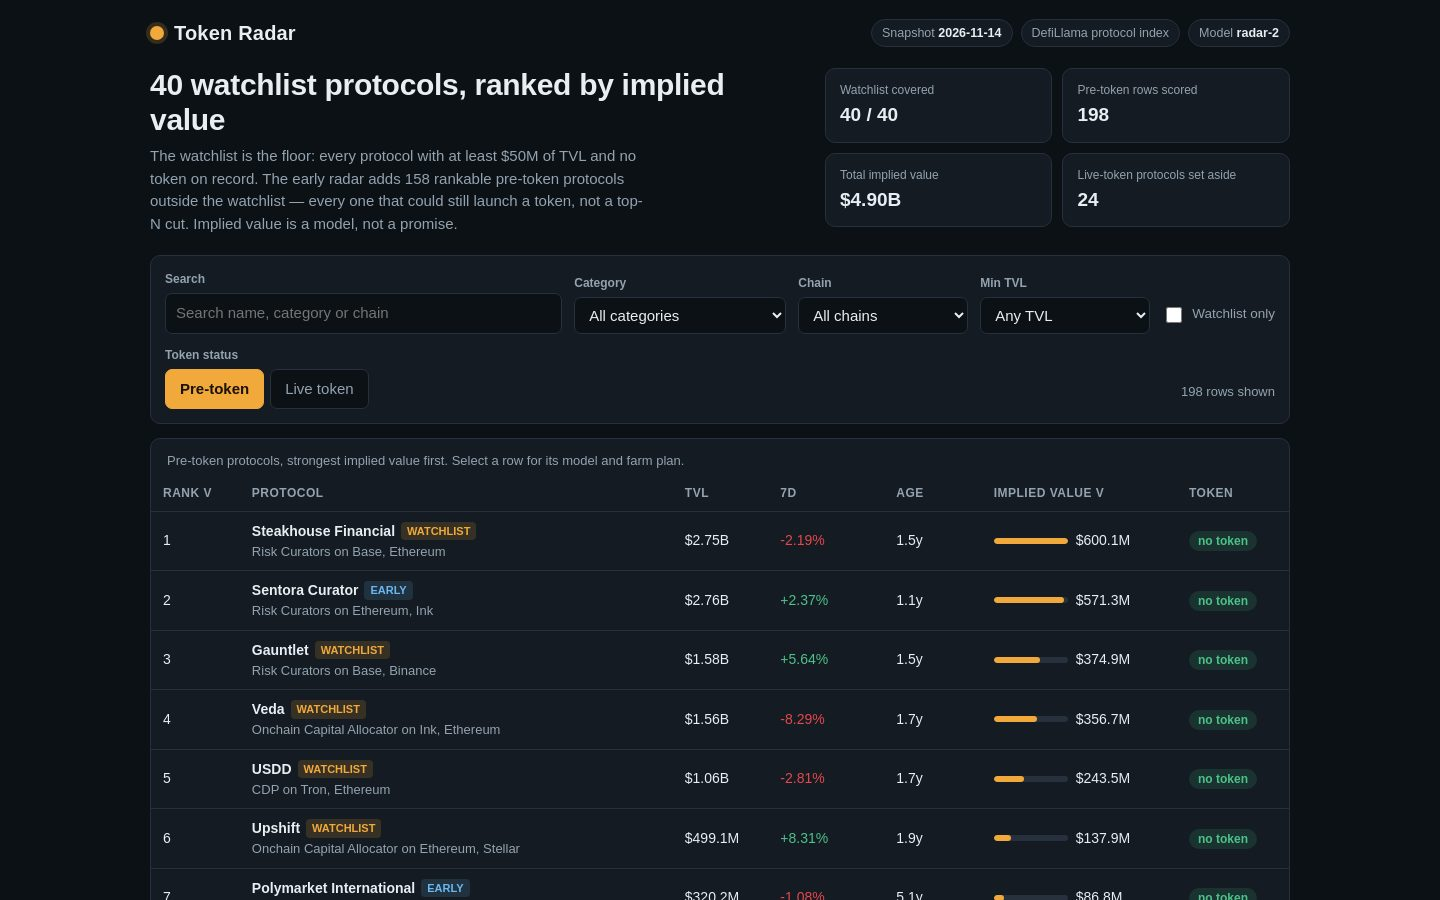
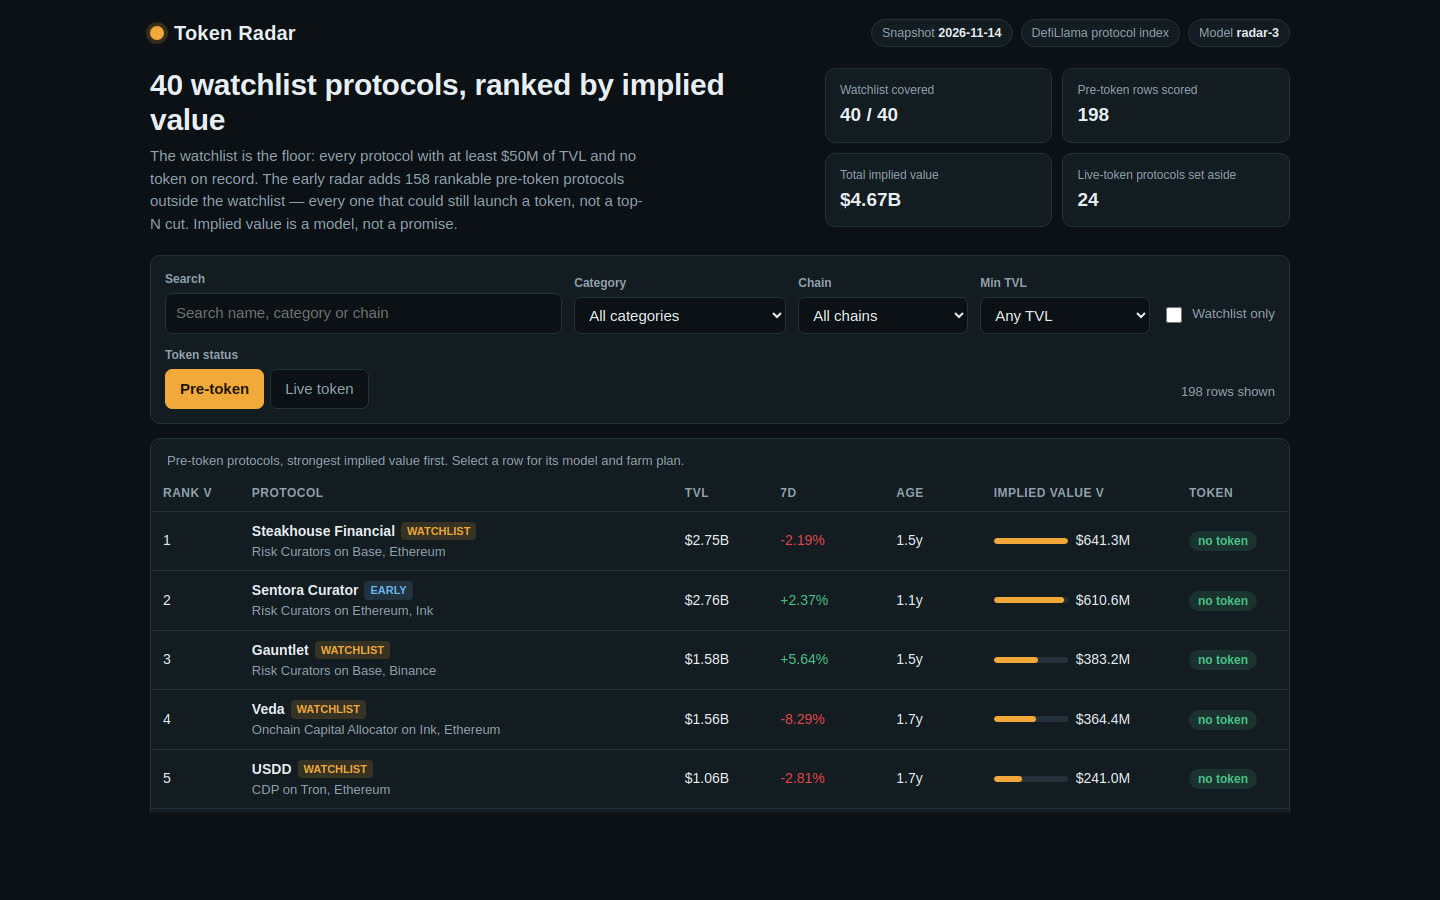
token-radar-01 radar-3: comparables-calibrated value model, dashboard comparables table, fresh screenshots
Implied value no longer uses a hardcoded 1.31 coefficient: each row is
priced off the median market-cap/TVL of live tokens in its own category
(at least 5 live tokens, else the overall median of 119 live tokens at
0.246x, clamped to 0.05-0.65x), read off the sealed snapshot. The
dashboard prints the full comparables table and the detail view shows
each row's multiple and its anchor. 59 of 198 rows move 10+ ranks; the
top 5 are unchanged. Board still 198 rows, watchlist 40/40, total
implied $4.67B. Screenshots re-rendered from the new dashboard.

diff --git a/lib/model.ts b/lib/model.ts
@@ -1,4 +1,4 @@
-// Token Radar, model radar-2: one sealed snapshot in, one ranked board out.
+// Token Radar, model radar-3: one sealed snapshot in, one ranked board out.
 //
 // The board ranks every protocol that records no token and could still launch one: the whole
 // watchlist plus every rankable pre-token protocol in the snapshot, at any TVL. The watchlist is
@@ -12,10 +12,15 @@
 // rule, minus the TVL floor, applied to the whole snapshot. Live-token protocols are kept apart
 // and shown with the market's own values, never mixed into the ranking.
 //
-// Implied value follows only from the snapshot's own figures, never from a name:
+// Implied value follows only from the snapshot's own figures, never from a name, and radar-3
+// calibrates its size term from the snapshot itself instead of a hardcoded coefficient. The
+// anchor is the market's own pricing of live tokens: for each category, the median
+// market-cap-to-TVL ratio of the live protocols in that category (a category needs at least five
+// live protocols with a recorded market cap above zero, or the row falls back to the median over
+// all live protocols). The multiple is clamped to [0.05, 0.65] so one outlier category cannot
+// set the board's scale. Then:
 //
-//   base     = 1.31 x tvl_usd^0.92          (diminishing returns: a protocol ten times the size
-//                                            is worth about eight times as much, not ten)
+//   multiple = category median mcap/TVL, or the overall median when the category is too thin
 //   growth   = clamp(change_7d, -50, 150)   (per cent; unknown growth counts as 0)
 //   growth x = 1 + growth/100 x 0.6         (growth rewarded) or x 0.4 when growth is negative
 //                                            (a shrinking protocol is discounted, not punished)
@@ -25,10 +30,12 @@
 //                                            has proven staying power; a young one is discounted
 //                                            for being unproven, and the curve flattens with age)
 //   breadth  = 1 + 0.02 x min(chains - 1, 4) (a protocol live on more chains reaches more users)
-//   implied  = max(1, round(base x growth x maturity x breadth))
+//   implied  = max(1, round(tvl_usd x multiple x growth x maturity x breadth))
 //
 // No protocol name is ever special-cased: the same function scores every row, and the dashboard
-// recomputes each row from the same figures so the page and board.json visibly agree.
+// recomputes each row from the same figures so the page and board.json visibly agree. The
+// dashboard also prints the comparables table the multiples come from, so a reader can check
+// every multiple against the live protocols that anchor it.
 
 /** The snapshot's protocol entry: exactly the ten fields the sealed input carries. */
 export interface SnapshotProtocol {
@@ -53,10 +60,11 @@ export interface Snapshot {
   watchlist: string[];
 }
 
-/** radar-2's constants, as the dashboard states them. */
+/** radar-3's constants, as the dashboard states them. */
 export interface ModelConstants {
-  base_coefficient: number;
-  tvl_exponent: number;
+  multiple_floor: number;
+  multiple_cap: number;
+  min_live_for_category: number;
   growth_weight_up: number;
   growth_weight_down: number;
   growth_floor: number;
@@ -70,8 +78,9 @@ export interface ModelConstants {
 }
 
 export const MODEL: ModelConstants = {
-  base_coefficient: 1.31,
-  tvl_exponent: 0.92,
+  multiple_floor: 0.05,
+  multiple_cap: 0.65,
+  min_live_for_category: 5,
   growth_weight_up: 0.6,
   growth_weight_down: 0.4,
   growth_floor: -50,
@@ -85,7 +94,23 @@ export const MODEL: ModelConstants = {
 };
 
 /** The model's version label: the dashboard names it. */
-export const MODEL_VERSION = 'radar-2';
+export const MODEL_VERSION = 'radar-3';
+
+/** One row of the comparables table: what the market pays for live tokens in a category. */
+export interface Comparable {
+  category: string;
+  live_n: number;
+  median_mcap_tvl: number;
+  multiple: number;
+  source: 'category' | 'overall';
+}
+
+/** The comparables table and the overall median it falls back to. */
+export interface Comparables {
+  overall_median_mcap_tvl: number;
+  overall_live_n: number;
+  rows: Comparable[];
+}
 
 /** How many live-token protocols the Live token view carries, by market cap. */
 export const LIVE_ROWS = 24;
@@ -115,6 +140,10 @@ export interface BoardRow {
   implied_value_usd: number;
   model: {
     base_usd: number;
+    multiple: number;
+    multiple_source: 'category' | 'overall';
+    comparable_live_n: number;
+    comparable_median_mcap_tvl: number;
     growth_pct: number;
     growth_multiplier: number;
     maturity_multiplier: number;
@@ -137,6 +166,10 @@ export interface RadarRow {
   listed_at: string | null;
   age_days: number | null;
   implied_value_usd: number;
+  multiple: number;
+  multiple_source: 'category' | 'overall';
+  comparable_live_n: number;
+  comparable_median_mcap_tvl: number;
   growth_multiplier: number;
   maturity_multiplier: number;
   breadth_multiplier: number;
@@ -153,13 +186,14 @@ export interface LiveRow {
   change_7d: number | null;
 }
 
-/** Everything the dashboard needs: the board, the live set, and the model it runs. */
+/** Everything the dashboard needs: the board, the live set, the comparables, and the model it runs. */
 export interface RadarData {
   as_of: string;
   source: string;
   floor_usd: number;
   model: ModelConstants;
   model_version: string;
+  comparables: Comparables;
   watchlist: string[];
   watchlist_size: number;
   board_size: number;
@@ -193,9 +227,62 @@ export function ageDays(asOf: string, listedAt: string | null): number | null {
   return Math.max(0, Math.floor((a - b) / DAY_MS));
 }
 
-/** The size term: TVL with diminishing returns, so size still dominates but never linearly. */
-export function baseValue(tvlUsd: number, model: ModelConstants): number {
-  return model.base_coefficient * Math.pow(Math.max(0, tvlUsd), model.tvl_exponent);
+/** The median of a sorted list of numbers; null when the list is empty. */
+function medianOf(sorted: number[]): number | null {
+  if (sorted.length === 0) return null;
+  return sorted[Math.floor(sorted.length / 2)]!;
+}
+
+/** The comparables table, read off the snapshot's own live-token protocols: for every category
+ * with at least `min_live_for_category` live protocols carrying a market cap above zero, the
+ * median market-cap-to-TVL ratio of those protocols; every other category falls back to the
+ * median over all live protocols. A live protocol with no market cap, a zero market cap, no TVL
+ * or a CEX record is not a comparable: a token with no quoted price is not a price. The multiple
+ * is the median clamped to [multiple_floor, multiple_cap], so one rich category cannot set the
+ * board's scale. The table is sorted by multiple, strongest first, so the dashboard can print
+ * it as the market's own ranking of what a token is worth per dollar of TVL. */
+export function comparables(snapshot: Snapshot, model: ModelConstants = MODEL): Comparables {
+  const live = snapshot.protocols.filter(
+    (p) => !isPreToken(p) && p.category !== 'CEX' && p.tvl_usd > 0 && p.mcap_usd !== null && p.mcap_usd > 0,
+  );
+  const overall = medianOf(live.map((p) => p.mcap_usd! / p.tvl_usd).sort((a, b) => a - b)) ?? 0;
+  const clamp = (v: number): number => Math.min(model.multiple_cap, Math.max(model.multiple_floor, v));
+  const byCategory = new Map<string, number[]>();
+  for (const p of live) {
+    const key = p.category ?? 'Other';
+    const list = byCategory.get(key) ?? [];
+    list.push(p.mcap_usd! / p.tvl_usd);
+    byCategory.set(key, list);
+  }
+  const rows: Comparable[] = [...byCategory.entries()]
+    .map(([category, ratios]) => {
+      const median = medianOf(ratios.sort((a, b) => a - b)) ?? overall;
+      const thin = ratios.length < model.min_live_for_category;
+      return {
+        category,
+        live_n: ratios.length,
+        median_mcap_tvl: round4(median),
+        multiple: round4(clamp(thin ? overall : median)),
+        source: (thin ? 'overall' : 'category') as 'category' | 'overall',
+      };
+    })
+    .sort((a, b) => b.multiple - a.multiple || b.live_n - a.live_n || (a.category < b.category ? -1 : 1));
+  return { overall_median_mcap_tvl: round4(overall), overall_live_n: live.length, rows };
+}
+
+/** The multiple one category's rows are scored with: its own median when the category has
+ * enough live protocols to anchor one, else the overall median, clamped to the model's band. */
+export function multipleFor(category: string | null, table: Comparables, model: ModelConstants = MODEL): Comparable {
+  const clamp = (v: number): number => Math.min(model.multiple_cap, Math.max(model.multiple_floor, v));
+  const row = table.rows.find((r) => r.category === (category ?? 'Other'));
+  if (row !== undefined && row.source === 'category') return row;
+  return {
+    category: category ?? 'Other',
+    live_n: table.overall_live_n,
+    median_mcap_tvl: table.overall_median_mcap_tvl,
+    multiple: round4(clamp(table.overall_median_mcap_tvl)),
+    source: 'overall',
+  };
 }
 
 /** The growth term: clamped growth, rewarded when positive, discounted when negative. */
@@ -223,9 +310,10 @@ export function scoreProtocol(
   protocol: SnapshotProtocol,
   asOf: string,
   model: ModelConstants,
+  multiple: Comparable,
 ): { implied: number; base: number; growthPct: number; growthMult: number; maturityMult: number; breadthMult: number; age: number | null } {
   const age = ageDays(asOf, protocol.listed_at);
-  const base = baseValue(protocol.tvl_usd, model);
+  const base = protocol.tvl_usd * multiple.multiple;
   const { pct: growthPct, mult: growthMult } = growthMultiplier(protocol.change_7d, model);
   const maturityMult = maturityMultiplier(age, model);
   const breadthMult = breadthMultiplier(protocol.chains, model);
@@ -269,7 +357,7 @@ function bySlug(protocols: SnapshotProtocol[]): Map<string, SnapshotProtocol> {
 }
 
 /** The protocols the board ranks, strongest first, with ranks 1..n. */
-export function buildBoard(snapshot: Snapshot, model: ModelConstants = MODEL): BoardRow[] {
+export function buildBoard(snapshot: Snapshot, model: ModelConstants = MODEL, table: Comparables = comparables(snapshot, model)): BoardRow[] {
   const index = bySlug(snapshot.protocols);
   const chosen = new Map<string, SnapshotProtocol>();
   // The watchlist is the floor: every slug, even one the snapshot no longer carries (it cannot,
@@ -289,8 +377,9 @@ export function buildBoard(snapshot: Snapshot, model: ModelConstants = MODEL): B
   }
 
   const scored = [...chosen.values()].map((p) => {
-    const s = scoreProtocol(p, snapshot.as_of, model);
-    return { p, ...s };
+    const multiple = multipleFor(p.category, table, model);
+    const s = scoreProtocol(p, snapshot.as_of, model, multiple);
+    return { p, multiple, ...s };
   });
   // Strongest implied value first; ties break on TVL, then slug, so the order is deterministic.
   scored.sort(
@@ -313,6 +402,10 @@ export function buildBoard(snapshot: Snapshot, model: ModelConstants = MODEL): B
     implied_value_usd: s.implied,
     model: {
       base_usd: s.base,
+      multiple: s.multiple.multiple,
+      multiple_source: s.multiple.source,
+      comparable_live_n: s.multiple.live_n,
+      comparable_median_mcap_tvl: s.multiple.median_mcap_tvl,
       growth_pct: s.growthPct,
       growth_multiplier: round4(s.growthMult),
       maturity_multiplier: round4(s.maturityMult),
@@ -608,6 +701,10 @@ export function radarRow(row: BoardRow): RadarRow {
     listed_at: row.listed_at,
     age_days: row.age_days,
     implied_value_usd: row.implied_value_usd,
+    multiple: row.model.multiple,
+    multiple_source: row.model.multiple_source,
+    comparable_live_n: row.model.comparable_live_n,
+    comparable_median_mcap_tvl: row.model.comparable_median_mcap_tvl,
     growth_multiplier: row.model.growth_multiplier,
     maturity_multiplier: row.model.maturity_multiplier,
     breadth_multiplier: row.model.breadth_multiplier,
@@ -616,7 +713,8 @@ export function radarRow(row: BoardRow): RadarRow {
 
 /** Everything the dashboard renders, from the snapshot. */
 export function buildRadar(snapshot: Snapshot, model: ModelConstants = MODEL): { board: BoardRow[]; radar: RadarData } {
-  const board = buildBoard(snapshot, model);
+  const table = comparables(snapshot, model);
+  const board = buildBoard(snapshot, model, table);
   const live = liveRows(snapshot);
   const early = board.filter((r) => !snapshot.watchlist.includes(r.slug)).length;
   const radar: RadarData = {
@@ -625,6 +723,7 @@ export function buildRadar(snapshot: Snapshot, model: ModelConstants = MODEL): {
     floor_usd: snapshot.floor_usd,
     model,
     model_version: MODEL_VERSION,
+    comparables: table,
     watchlist: snapshot.watchlist,
     watchlist_size: snapshot.watchlist.length,
     board_size: board.length,

diff --git a/dashboard/app.js b/dashboard/app.js
@@ -32,8 +32,9 @@
     return String(s).replace(/&/g, '&amp;').replace(/</g, '&lt;').replace(/>/g, '&gt;').replace(/"/g, '&quot;');
   }
 
-  // radar-2, as in lib/model.ts: base = 1.31 x tvl^0.92; growth clamped and asymmetric; maturity
-  // on an exponential curve by age; breadth from the chain count. No name is special-cased.
+  // radar-3, as in lib/model.ts: TVL times the category's own median market-cap-to-TVL among
+  // live tokens (or the overall median when the category is too thin), then growth, maturity
+  // and breadth. No name is special-cased.
   function impliedOf(row, model) {
     var growth = Math.min(model.growth_cap, Math.max(model.growth_floor, row.change_7d === null || row.change_7d === undefined ? 0 : row.change_7d));
     var weight = growth >= 0 ? model.growth_weight_up : model.growth_weight_down;
@@ -42,7 +43,7 @@
     var maturity = model.maturity_floor + model.maturity_range * (1 - Math.exp(-Math.max(0, age) / model.maturity_half_life_days));
     var extra = Math.min(Math.max((row.chains || []).length - 1, 0), model.breadth_max_chains - 1);
     var breadth = 1 + extra * model.breadth_per_chain;
-    return Math.max(1, Math.round(model.base_coefficient * Math.pow(Math.max(0, row.tvl_usd), model.tvl_exponent) * growthMult * maturity * breadth));
+    return Math.max(1, Math.round(Math.max(0, row.tvl_usd) * (row.multiple || 0) * growthMult * maturity * breadth));
   }
 
   function el(tag, attrs) {
@@ -446,14 +447,47 @@
     var m = DATA.model;
     return el('section', { class: 'panel model' },
       el('h2', { text: 'How implied value is computed' }),
-      el('p', { class: 'sub', text: 'Every row is scored by one function of the snapshot figures. No protocol name is special-cased, and no row is hand-picked.' }),
+      el('p', { class: 'sub', text: 'Every row is scored by one function of the snapshot figures. No protocol name is special-cased, and no row is hand-picked. The size term is not a hardcoded coefficient: it is the market’s own pricing of live tokens, read off this same snapshot (see the comparables below).' }),
       el('div', { class: 'formula' },
-        'implied = round( 1.31 x tvl_usd^0.92 x growth x maturity x breadth )\n' +
+        'implied = round( tvl_usd x multiple x growth x maturity x breadth )\n' +
+        'multiple = median market-cap / TVL of live tokens in the same category\n' +
+        '           (at least 5 live tokens, else the overall median of ' + DATA.comparables.overall_live_n + ' live tokens: ' + DATA.comparables.overall_median_mcap_tvl + 'x; clamped to ' + m.multiple_floor + '–' + m.multiple_cap + 'x)\n' +
         'growth   = 1 + clamp(change_7d, -50, 150) / 100 x 0.6 (up) or 0.4 (down)\n' +
         'maturity = 0.55 + 0.45 x (1 - e^(-age_days / 400))   age unknown: 365 days\n' +
         'breadth  = 1 + 0.02 x min(chains - 1, 4)'
       ),
-      el('p', { class: 'sub', text: 'TVL and seven-day growth come from the snapshot. Age is the time since the protocol was first listed, the best record of how long it has run with no token. Size has diminishing returns, growth is rewarded more than decline is punished, and a protocol live on more chains reaches more users.' })
+      el('p', { class: 'sub', text: 'TVL and seven-day growth come from the snapshot. Age is the time since the protocol was first listed, the best record of how long it has run with no token. A DEX token trades at a different multiple of TVL than a lending token, so each category is priced off its own live tokens; growth is rewarded more than decline is punished, and a protocol live on more chains reaches more users.' })
+    );
+  }
+
+  function comparablesPanel() {
+    var rows = DATA.comparables.rows;
+    var tbody = el('tbody');
+    rows.forEach(function (r) {
+      tbody.appendChild(el('tr', null,
+        el('td', null, el('b', { text: r.category })),
+        el('td', { class: 'num', text: String(r.live_n) }),
+        el('td', { class: 'num', text: r.median_mcap_tvl.toFixed(3) + 'x' }),
+        el('td', { class: 'num', text: r.multiple.toFixed(3) + 'x' }),
+        el('td', null, el('span', { class: 'status ' + (r.source === 'category' ? 'pre' : 'live'), text: r.source === 'category' ? 'category median' : 'overall median' }))
+      ));
+    });
+    return el('section', { class: 'panel model' },
+      el('h2', { text: 'Comparables: what live tokens are worth per dollar of TVL' }),
+      el('p', { class: 'sub', text: 'Each multiple is the median market-cap-to-TVL ratio of the live-token protocols in that category, read off this snapshot — ' + DATA.comparables.overall_live_n + ' live protocols with a recorded market cap above zero, overall median ' + DATA.comparables.overall_median_mcap_tvl + 'x. A category with fewer than 5 live tokens is too thin to anchor its own multiple, so its rows use the overall median instead. A live protocol with no market cap, a zero market cap or no TVL is not a comparable: a token with no quoted price is not a price.' }),
+      el('div', { class: 'table-wrap' },
+        el('table', null,
+          el('caption', { class: 'sub', text: 'One row per category that has a live token. The board’s multiples come from this table, strongest first.' }),
+          el('thead', null, el('tr', null,
+            el('th', { scope: 'col', text: 'Category' }),
+            el('th', { scope: 'col', text: 'Live tokens' }),
+            el('th', { scope: 'col', text: 'Median mcap / TVL' }),
+            el('th', { scope: 'col', text: 'Multiple used' }),
+            el('th', { scope: 'col', text: 'Source' })
+          )),
+          tbody
+        )
+      )
     );
   }
 
@@ -496,12 +530,13 @@
         el('div', null, el('span', { text: 'Seven-day growth' }), el('b', { class: 'num', text: fmtPct(row.change_7d) })),
         el('div', null, el('span', { text: 'Age with no token' }), el('b', { class: 'num', text: fmtAge(row.age_days) })),
         el('div', null, el('span', { text: 'Chains' }), el('b', { class: 'num', text: String((row.chains || []).length) })),
+        el('div', null, el('span', { text: 'Comparable multiple' }), el('b', { class: 'num', text: (row.multiple || 0).toFixed(3) + 'x' })),
         el('div', null, el('span', { text: 'Growth multiplier' }), el('b', { class: 'num', text: String(row.growth_multiplier) })),
         el('div', null, el('span', { text: 'Maturity multiplier' }), el('b', { class: 'num', text: String(row.maturity_multiplier) })),
         el('div', null, el('span', { text: 'Breadth multiplier' }), el('b', { class: 'num', text: String(row.breadth_multiplier) })),
         el('div', null, el('span', { text: 'Implied value' }), el('b', { class: 'num', text: fmtUsd(row.implied_value_usd) }))
       ),
-      el('p', { class: 'sub', text: 'Model ' + DATA.model_version + ': the same function scores every protocol. The page recomputes this row as ' + fmtUsd(recomputed) + (recomputed === row.implied_value_usd ? ', the same number board.json carries.' : ', which differs from the board: the data would be stale.') + ' This is an estimate, not a price, and it says nothing about whether or when a token is issued.' })
+      el('p', { class: 'sub', text: 'Model ' + DATA.model_version + ': the same function scores every protocol. The multiple is ' + (row.multiple_source === 'category' ? 'the median market-cap-to-TVL of ' + row.comparable_live_n + ' live ' + (row.category || 'Other') + ' tokens (' + row.comparable_median_mcap_tvl + 'x)' : 'the overall median of ' + row.comparable_live_n + ' live tokens (' + row.comparable_median_mcap_tvl + 'x), because too few live ' + (row.category || 'Other') + ' tokens exist to anchor a category multiple') + '. The page recomputes this row as ' + fmtUsd(recomputed) + (recomputed === row.implied_value_usd ? ', the same number board.json carries.' : ', which differs from the board: the data would be stale.') + ' This is an estimate, not a price, and it says nothing about whether or when a token is issued.' })
     ));
     dialog.appendChild(el('section', { class: 'detail-section' },
       el('h3', { text: 'Farm plan' }),
@@ -529,6 +564,7 @@
     shell.appendChild(state.tab === 'pre-token' ? boardTable() : liveTable());
     if (state.tab === 'pre-token') {
       shell.appendChild(modelPanel());
+      shell.appendChild(comparablesPanel());
       shell.appendChild(methodPanel());
     }
     shell.appendChild(el('footer', { class: 'foot', text: 'Source: ' + DATA.source + '. Snapshot as of ' + DATA.as_of + '. Implied values are this radar’s model, not make.fun’s, and never a prediction that a token will be issued.' }));

diff --git a/main.ts b/main.ts
@@ -1,4 +1,4 @@
-// Token Radar, model radar-2 (Node 22, standard library only).
+// Token Radar, model radar-3 (Node 22, standard library only).
 //
 // The program reads the sealed snapshot from /input/snapshot.json (or --input <file|dir>), scores
 // every protocol that records no token with the model in lib/model.ts, writes the ranked board to
